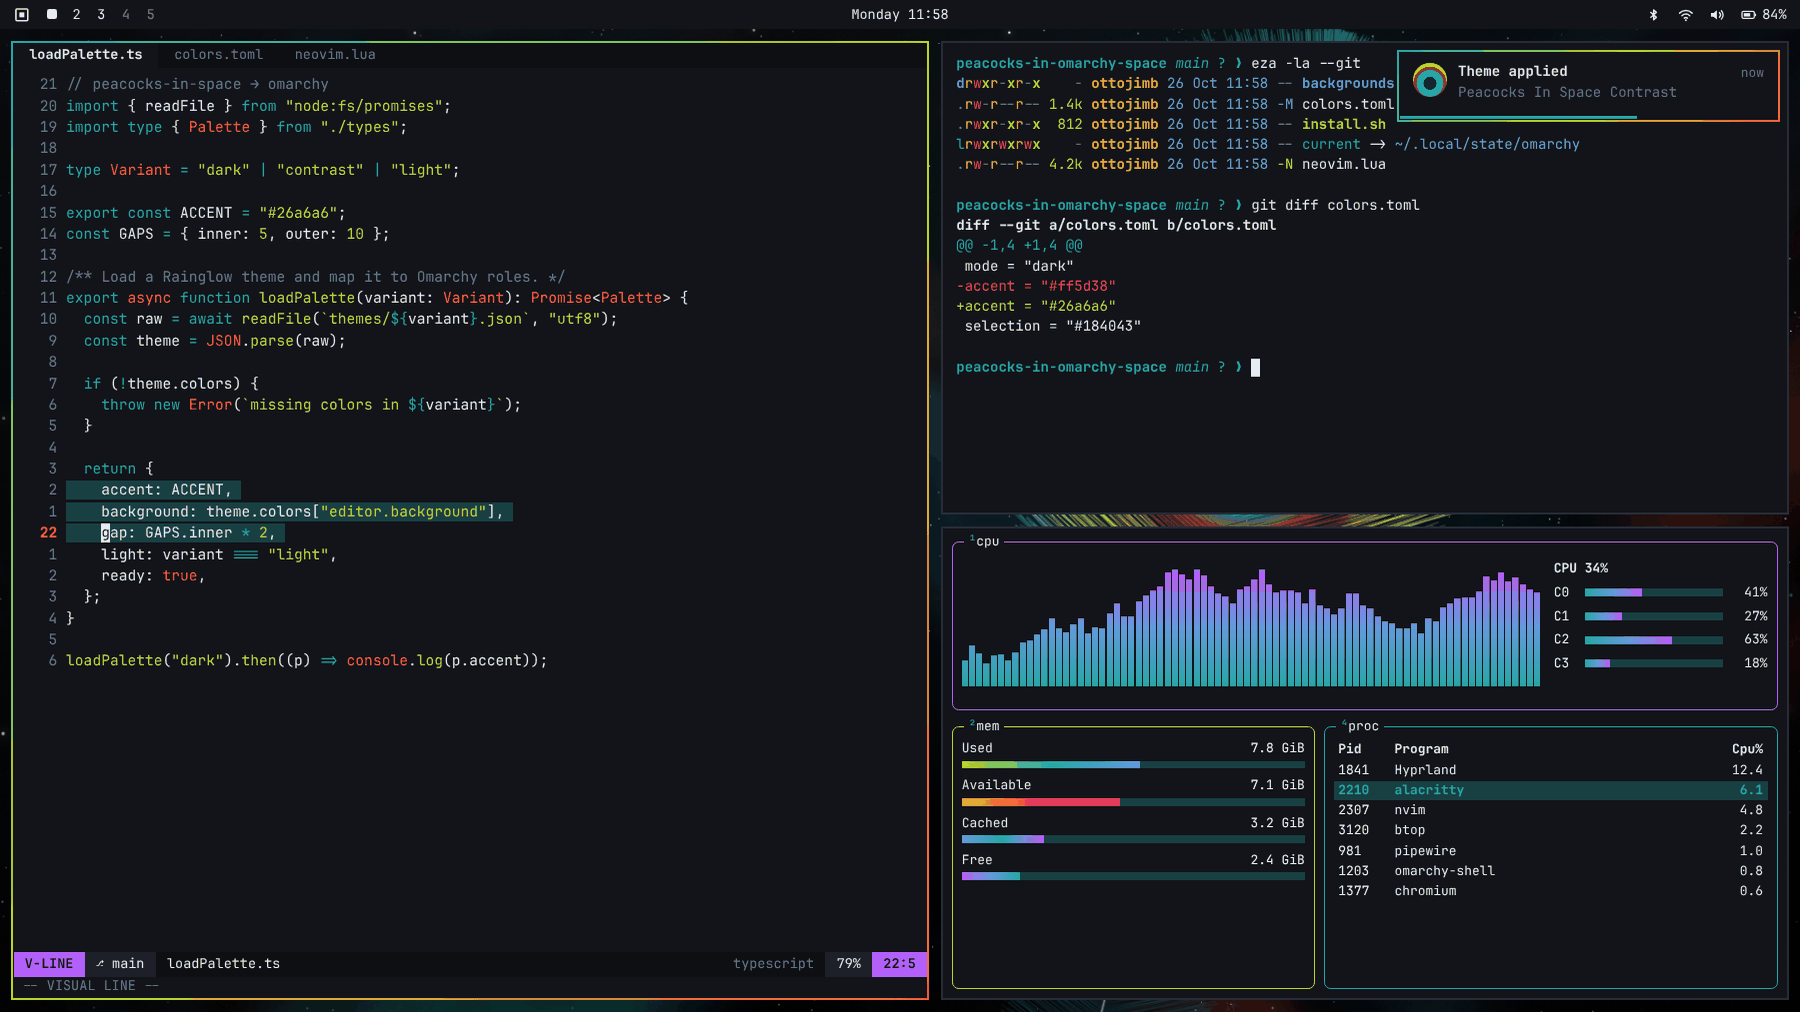
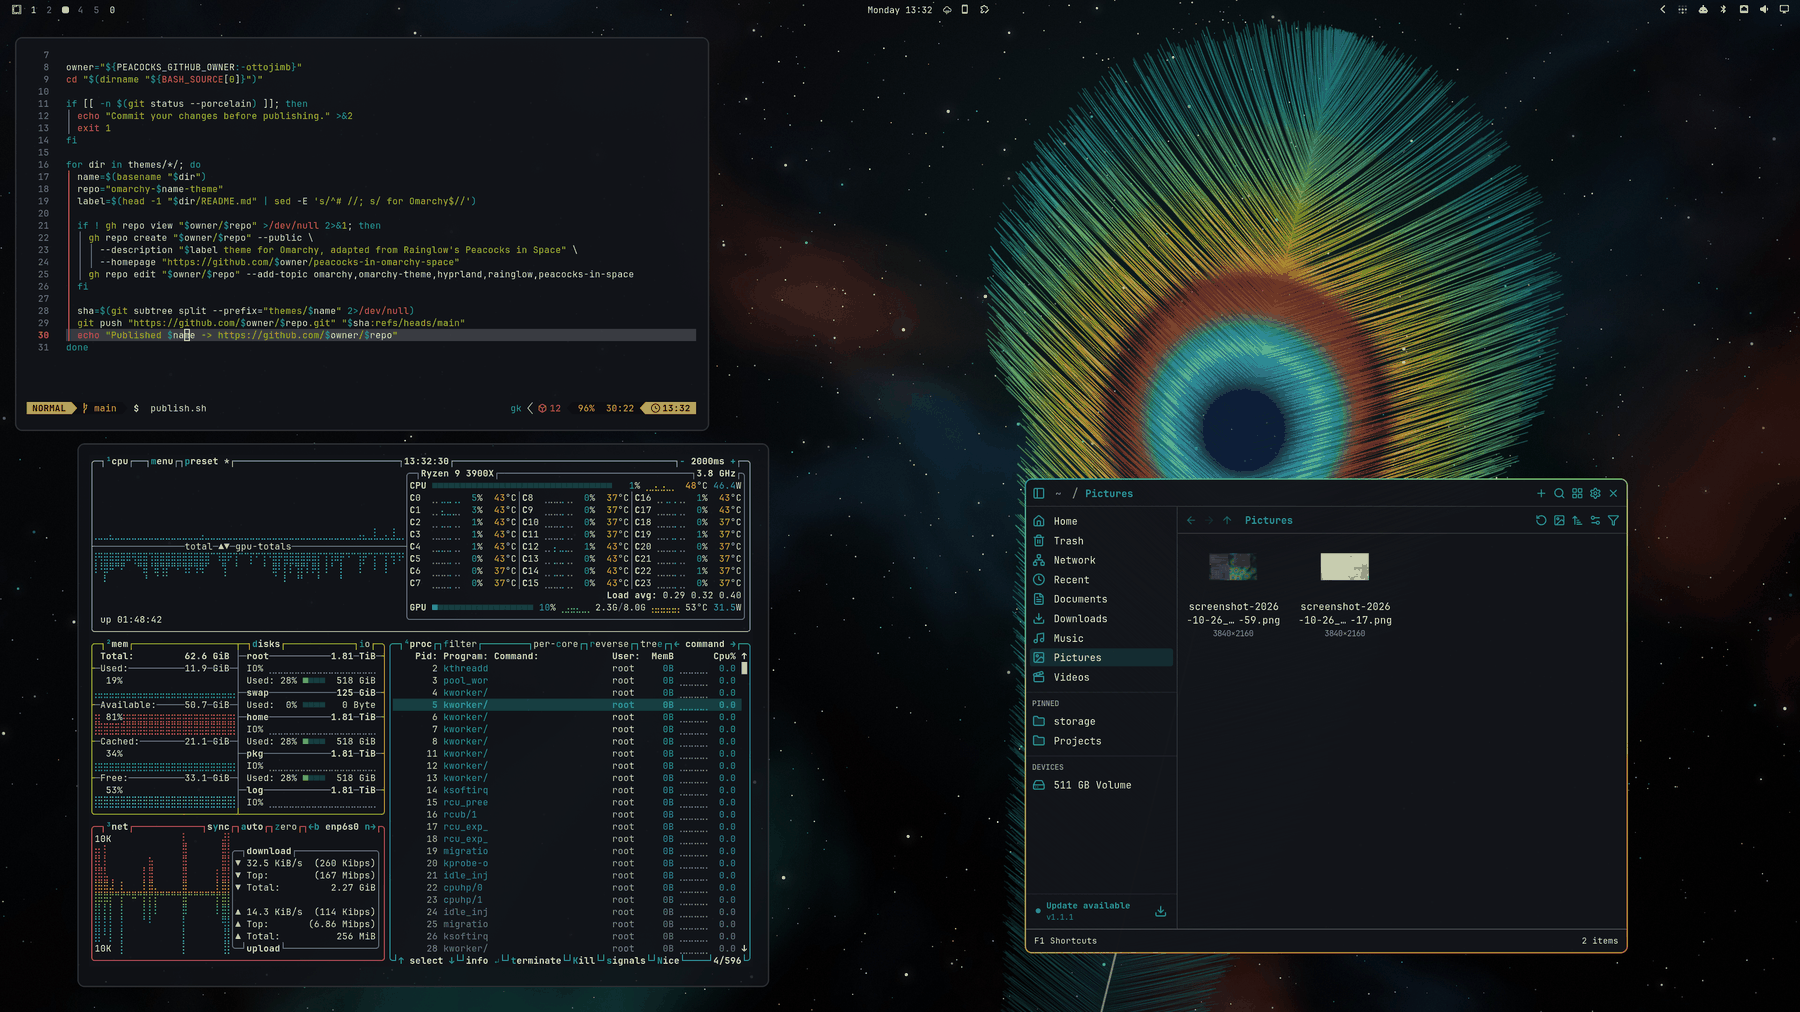
Use real desktop screenshots as theme previews
preview.png now comes from screenshots/<theme>.png, resized to 1800x1012
and palette-reduced like Omarchy's built-in previews. The rendered
mockup stays as the fallback for themes without a screenshot.

diff --git a/generate.py b/generate.py
@@ -1,8 +1,9 @@
 #!/usr/bin/env python3
 """Build the Peacocks in Space themes for Omarchy from a single palette.
 
-    python3 generate.py           write the theme files
-    python3 generate.py --assets  also render wallpapers and preview.png
+    python3 generate.py           write the theme files; preview.png from screenshots/
+    python3 generate.py --assets  also render wallpapers, and a mockup preview.png for
+                                  themes without a screenshot
                                   (needs google-chrome-stable or chromium, and Pillow)
 
 Source palettes: https://github.com/rainglow/vscode (peacocks-in-space*.json).
@@ -22,6 +23,7 @@ from string import Template
 ROOT = Path(__file__).resolve().parent
 THEMES_DIR = ROOT / "themes"
 RENDER_DIR = ROOT / "render"
+SCREENSHOTS_DIR = ROOT / "screenshots"  # real desktop shots, preferred over the rendered mockup
 
 # Rainglow accents shared by the three variants.
 TEAL = "#26a6a6"
@@ -578,6 +580,28 @@ def write_render_data(themes: dict) -> None:
     (RENDER_DIR / "themes.js").write_text(data)
 
 
+def save_preview(image, theme_id: str) -> None:
+    """preview.png at Omarchy's size, palette-reduced like the built-in themes."""
+    from PIL import Image
+
+    image = image.convert("RGB").resize((1800, 1012), Image.LANCZOS)
+    image.quantize(colors=256, dither=Image.Dither.FLOYDSTEINBERG).save(THEMES_DIR / theme_id / "preview.png", optimize=True)
+
+
+def preview_from_screenshot(theme_id: str) -> bool:
+    """Use screenshots/<id>.png as preview.png when it exists."""
+    shot = SCREENSHOTS_DIR / f"{theme_id}.png"
+    if not shot.exists():
+        return False
+    try:
+        from PIL import Image
+    except ImportError:
+        print(f"  {theme_id}: skipped preview.png (needs Pillow)")
+        return True
+    save_preview(Image.open(shot), theme_id)
+    return True
+
+
 def find_chrome() -> str:
     for name in ("google-chrome-stable", "google-chrome", "chromium", "chromium-browser"):
         path = shutil.which(name)
@@ -617,11 +641,12 @@ def render_assets() -> None:
                 Image.open(png).convert("RGB").save(backgrounds / f"{name}.jpg", quality=92, subsampling=0, optimize=True, progressive=True)
                 print(f"  {v['id']}/backgrounds/{name}.jpg")
 
+            if (SCREENSHOTS_DIR / f"{v['id']}.png").exists():
+                continue  # main() already built preview.png from the real screenshot
             png = tmp_path / f"{v['id']}-preview.png"
             screenshot(chrome, RENDER_DIR / "preview.html", f"theme={v['id']}", (1600, 900), png, profile, scale=1.125)
-            preview = Image.open(png).convert("RGB").resize((1800, 1012), Image.LANCZOS)
-            preview.quantize(colors=256, dither=Image.Dither.FLOYDSTEINBERG).save(THEMES_DIR / v["id"] / "preview.png", optimize=True)
-            print(f"  {v['id']}/preview.png")
+            save_preview(Image.open(png), v["id"])
+            print(f"  {v['id']}/preview.png (mockup)")
 
 
 def main() -> None:
@@ -641,6 +666,8 @@ def main() -> None:
             "background": f"../themes/{v['id']}/backgrounds/{WALLPAPERS[0][0]}.jpg",
         }
         print(f"  {v['id']}: colors, neovim, vscode, hyprland, terminals, shell overrides, README, LICENSE")
+        if preview_from_screenshot(v["id"]):
+            print(f"  {v['id']}/preview.png (screenshot)")
     write_render_data(render_data)
 
     if args.assets:

diff --git a/README.md b/README.md
@@ -49,12 +49,13 @@ omarchy theme install https://github.com/ottojimb/omarchy-peacocks-in-space-them
 All colors live in `generate.py`.
 
 ```bash
-python3 generate.py           # theme files, README.md and LICENSE per theme
-python3 generate.py --assets  # also wallpapers and preview.png (Chrome + Pillow)
+python3 generate.py           # theme files, README.md, LICENSE and preview.png per theme
+python3 generate.py --assets  # also wallpapers (Chrome + Pillow)
 ```
 
-Wallpapers and previews are drawn by `render/wallpaper.html` and `render/preview.html`
-in headless Chrome.
+Wallpapers are drawn by `render/wallpaper.html` in headless Chrome. Each `preview.png`
+comes from the real desktop shot in `screenshots/<theme>.png` (16:9); without one,
+`render/preview.html` draws a mockup instead.
 
 ## Publish
 
